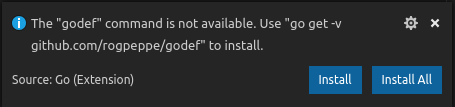
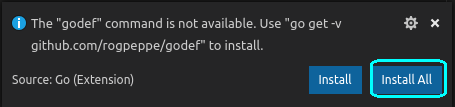
Kurulum bolumu duzenlendi

Changed region(s): [[0.8, 0.5327, 0.9846, 0.9252]]

diff --git a/01_Giris/01_Calisma_Ortami_Kurulumu/README.md b/01_Giris/01_Calisma_Ortami_Kurulumu/README.md
@@ -79,19 +79,32 @@ sudo dpkg -i code_1.31.0-1549443364_amd64.deb
 
   ##### Adım 1 :
 
+  İlk olarak sol menüde bulunan **"Extensions"** sekmesine tıklayınız
+
   ![Adım1](Resim/01_VC.png)
 
   ##### Adım 2 :
 
+  Açılan menüde, arama kısmına **"Go"** yazınız. Arama sunucunda **"Go"** eklentisi çıkacak. Ona tıkladığınızda bir sayfa açılacak. Açılan sayfada **"Install"** butonuna basınız. 
+
   ![Adım2](Resim/02_VC.png)
 
   ##### Adım 3 :
+
+  Eğer bilgisayarınızda **"Go"** araçları yoksa, bunları indirmek gerekmektedir. Sayfanın sağ alt köşesinde resimdeki gibi bir bilgilendirme ekranı çıakcak. Gelen ekranda **"Install All"** butonuna basarsanız, yüklemeleri gerçekleştirecektir.
+
   ![Adım3](Resim/03_VC.png)
 
   ##### Adım 4
+
+  Yükleme bitince böyle bir bildiri gelecek.
+
   ![Adım4](Resim/04_VC.png)
 
   ##### Adım 5
+
+  Artık **"Go"** geliştirmeye başlayabiliriz.
+
   ![Adım4](Resim/05_VC.png)
 
 
@@ -149,9 +162,6 @@ git clone https://github.com/scrooloose/syntastic
 ```
 #### Kullanımı
 > :SyntasticCheck go
-//#################################################################################
-	//Örnek2
-	//#################################################################################
 
 #### .vimrc Eklentisi :
 ```bash
